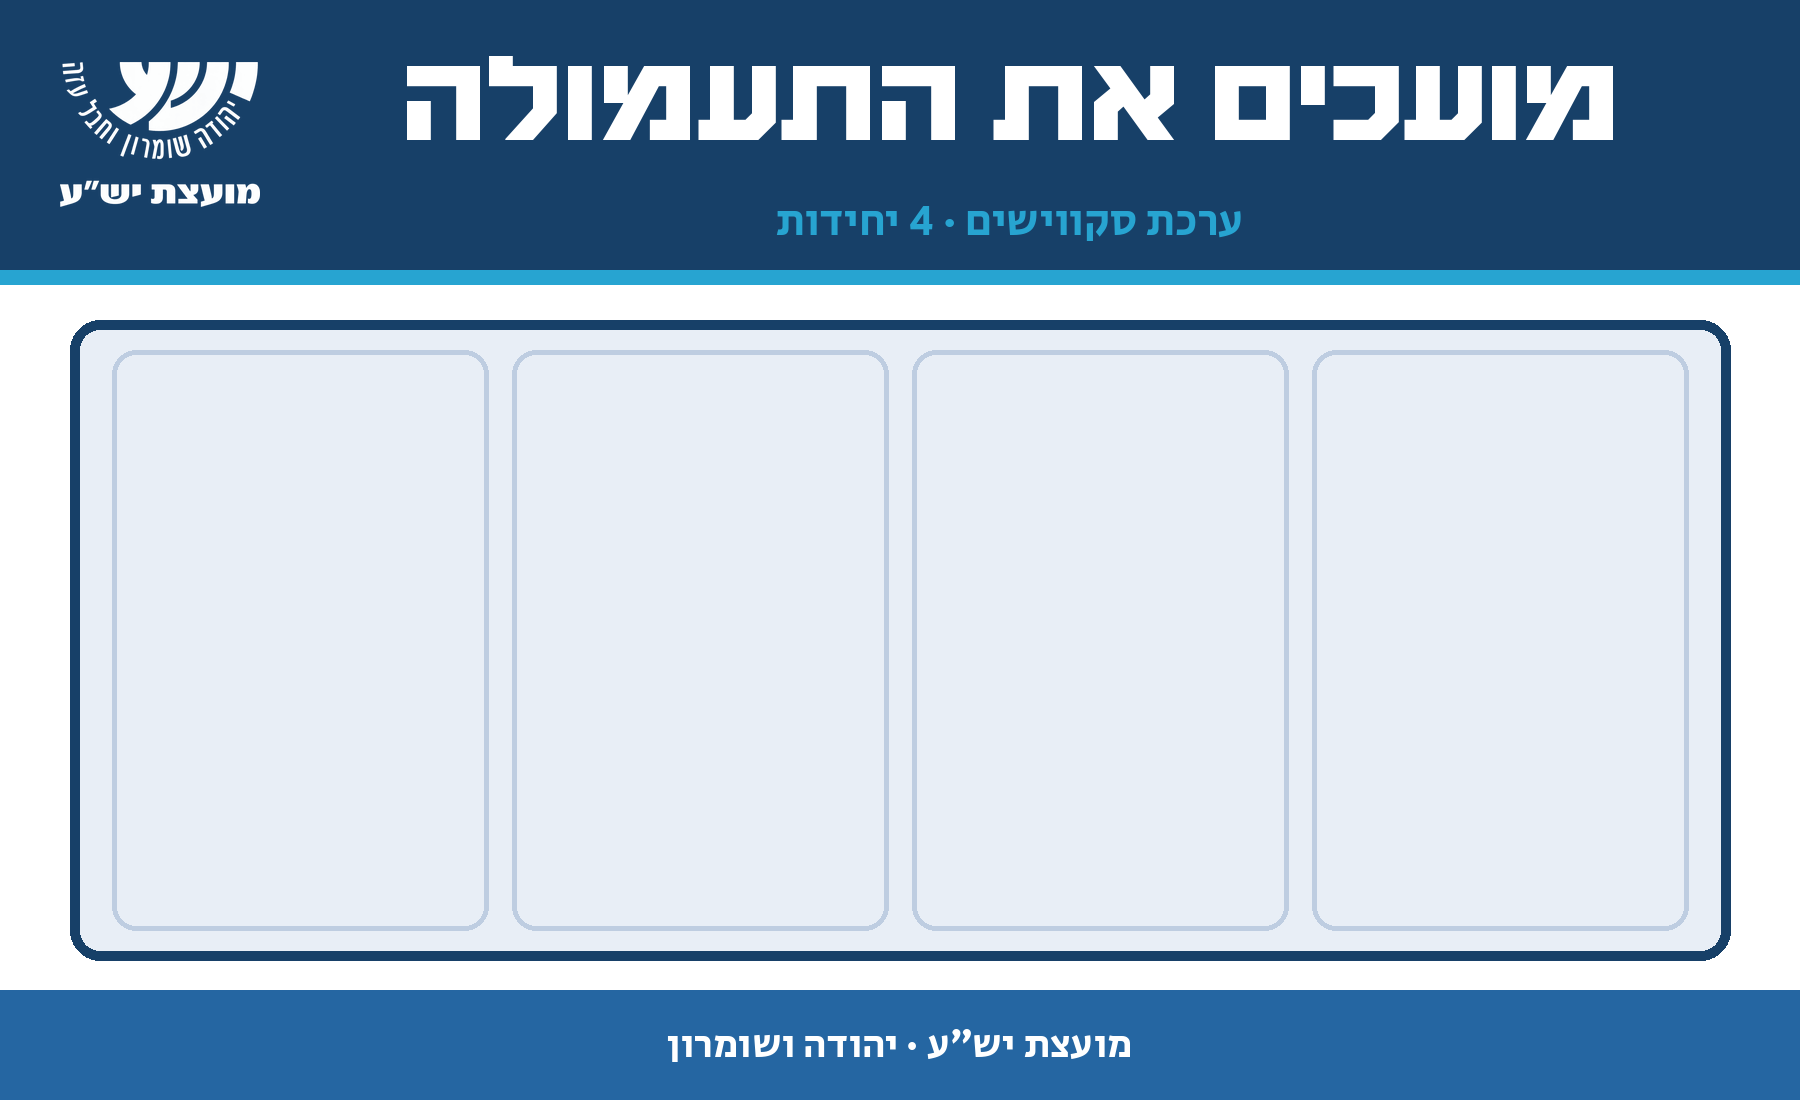
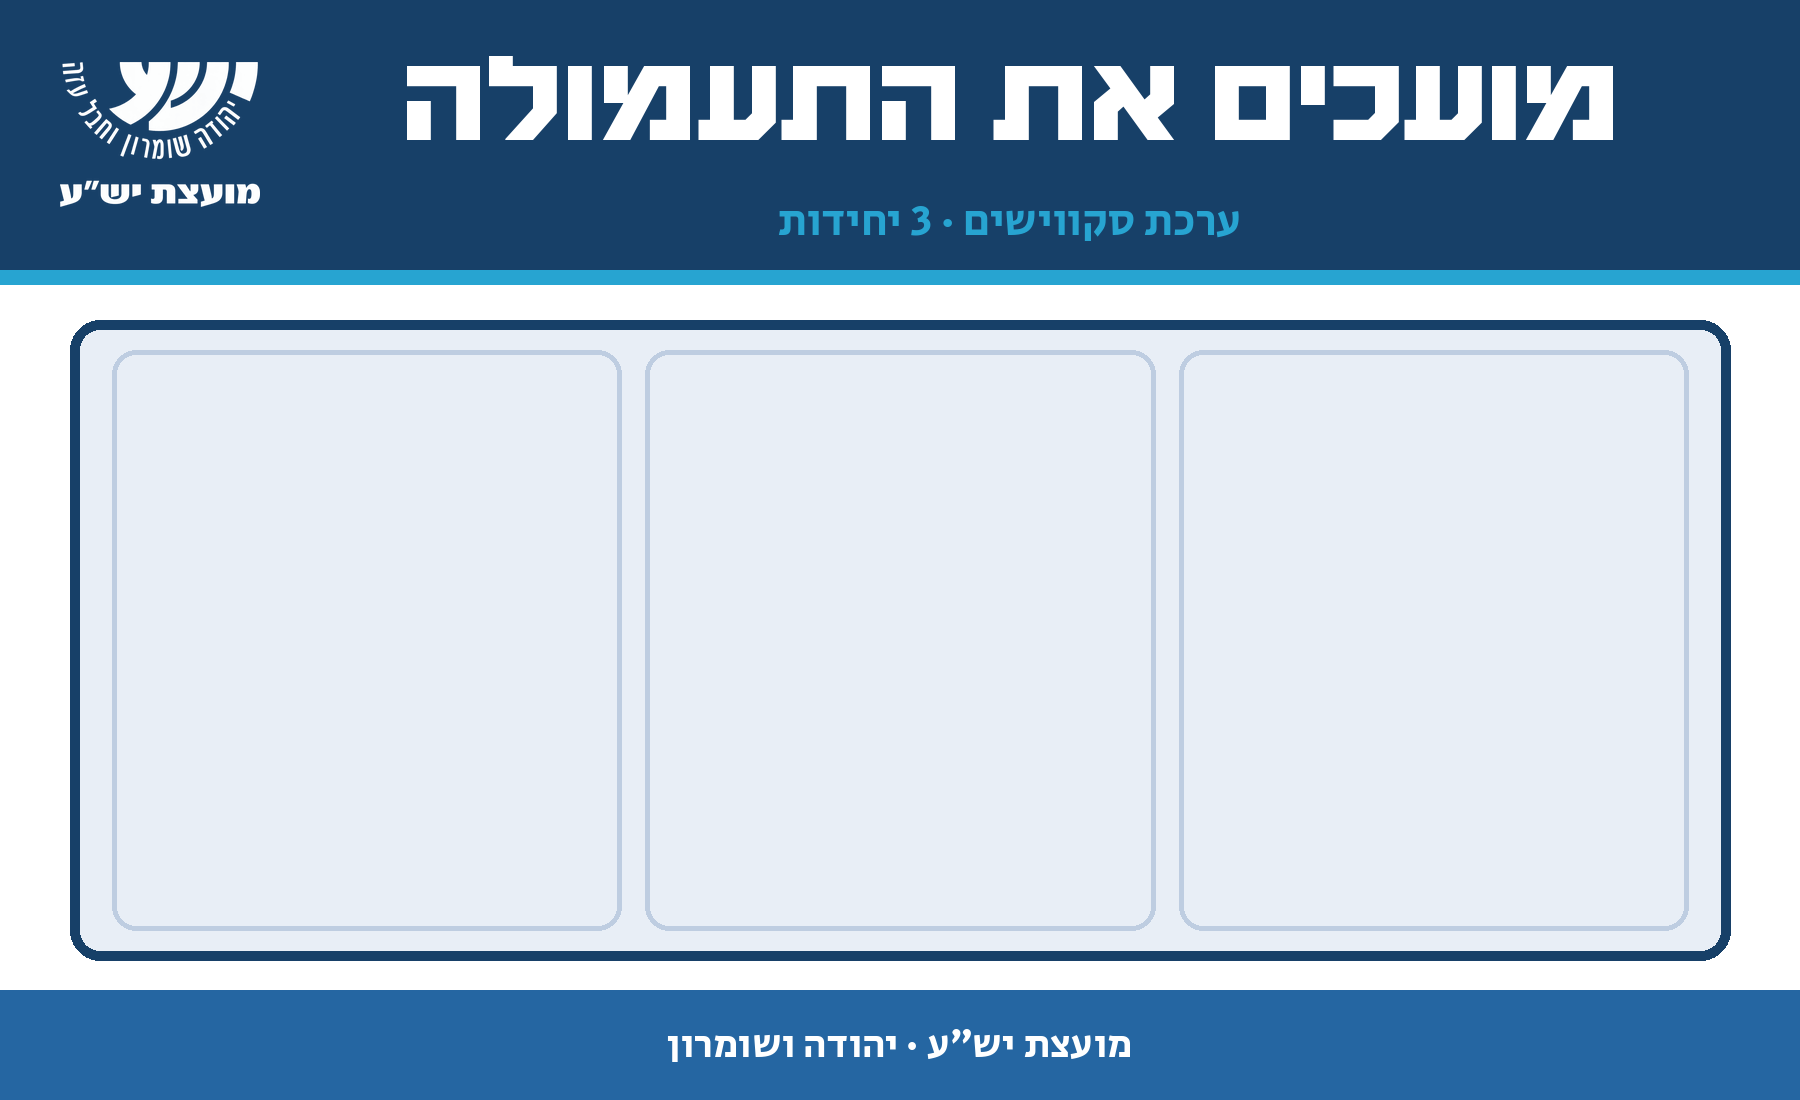
Yesha squishy kit: 3 squishies (Peace Now, PA flag, Haaretz)
Claude-Session: https://claude.ai/code/session_01RS3QK6pAd3YhyAuXZSJjH1

diff --git a/content-kit/yesha/2026-11-squishy-kit/make_box.py b/content-kit/yesha/2026-11-squishy-kit/make_box.py
@@ -6,7 +6,7 @@ KB = HERE + '/../../fonts/HaimClassicv2FM-Bold.ttf'; SEC = '/tmp/claude-0/-home-
 LOGO = HERE + '/../../clients/yesha/logo_white.png'
 W, H = 1800, 1100; NAVY, BLUE, LB, WHITE = (23, 64, 104), (37, 102, 162), (39, 164, 209), (255, 255, 255)
 def F(p, s): return ImageFont.truetype(p, s, layout_engine=ImageFont.Layout.RAQM)
-TITLE = os.environ.get('TITLE', 'מועכים את התעמולה'); SUB = 'ערכת סקווישים · 4 יחידות'
+TITLE = os.environ.get('TITLE', 'מועכים את התעמולה'); SUB = 'ערכת סקווישים · 3 יחידות'
 im = Image.new('RGBA', (W, H), WHITE); d = ImageDraw.Draw(im)
 d.rectangle((0, 0, W, 270), fill=NAVY); d.rectangle((0, 270, W, 284), fill=LB)
 d.text((W / 2 + 110, 40), TITLE, font=F(KB, 124), fill=WHITE, anchor='ma', direction='rtl')
@@ -15,8 +15,8 @@ lg = Image.open(LOGO).convert('RGBA'); lg = lg.crop(lg.getchannel('A').getbbox()
 im.alpha_composite(lg, (60, (270 - lg.height) // 2))
 WX0, WY0, WX1, WY1 = 70, 320, W - 70, 960
 d.rounded_rectangle((WX0, WY0, WX1, WY1), 30, fill=(232, 238, 246), outline=NAVY, width=10)
-for i in range(4):
-    x0 = WX0 + 30 + i * (WX1 - WX0 - 60) / 4; d.rounded_rectangle((x0 + 12, WY0 + 30, x0 + (WX1 - WX0 - 60) / 4 - 12, WY1 - 30), 24, outline=(190, 205, 225), width=5)
+for i in range(3):
+    x0 = WX0 + 30 + i * (WX1 - WX0 - 60) / 3; d.rounded_rectangle((x0 + 12, WY0 + 30, x0 + (WX1 - WX0 - 60) / 3 - 12, WY1 - 30), 24, outline=(190, 205, 225), width=5)
 d.rectangle((0, 990, W, H), fill=BLUE)
 d.text((W / 2, 1045), 'מועצת יש״ע · יהודה ושומרון', font=F(SEC, 40), fill=WHITE, anchor='mm', direction='rtl')
 im.convert('RGB').save(HERE + '/box-front.png'); print('ok')
